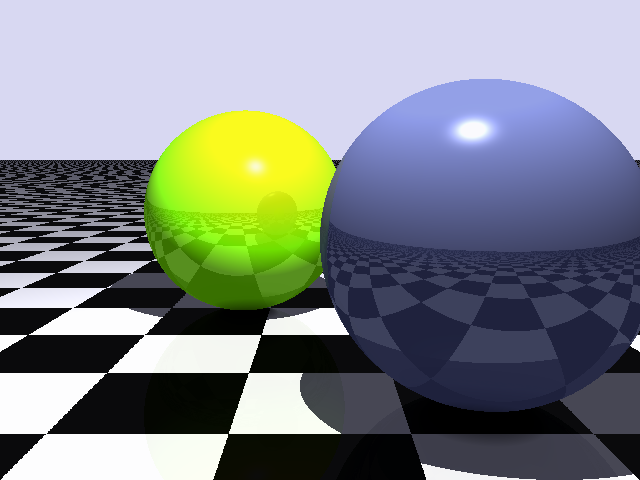
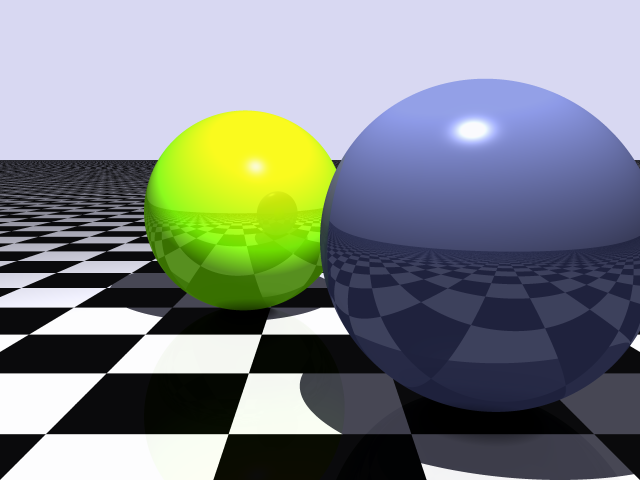
deleted sceneobject.go file

diff --git a/raytracer.go b/raytracer.go
@@ -6,11 +6,13 @@ import (
 	objects "de/vorlesung/projekt/raytracer/SceneObjects"
 	"log"
 	"os"
+	"runtime"
 	"time"
 )
 
 func main() {
-
+	numcpu := runtime.NumCPU()
+	runtime.GOMAXPROCS(numcpu)
 	h := new(Helper.Helper)
 	width := 640
 	height := 480
@@ -25,7 +27,9 @@ func main() {
 	sphere2 := objects.NewSphere(objects.NewVector(-2.5, 0.0, -0.75), 1.0)
 	plane := objects.NewPlane(objects.NewVector(0.0, -1.0, 0.0), objects.NewVector(0.0, 1.0, 0.0))
 
-	currentScene := scene.NewScene(objects.NewVector(4.0, 0.5, 0.0), scene.NewGrid(objects.NewVector(2.0, 1.00, -1.0), objects.NewVector(2.0, -0.50, 1.0)))
+	grid1 := scene.NewGrid(objects.NewVector(2.0, 1.00, -1.0), objects.NewVector(2.0, -0.50, 1.0))
+
+	currentScene := scene.NewScene(objects.NewVector(4.0, 0.5, 0.0), grid1)
 	currentScene.AddElement(scene.SceneObject(scene.NewBall(sphere1, objects.NewVector(0.54, 0.60, 0.90), 0.9, 4.0, 30.0, 0.125)))
 	currentScene.AddElement(scene.SceneObject(scene.NewBall(sphere2, objects.NewVector(1.0, 2.0, 0.0), 0.9, 4.0, 30.0, 0.125)))
 	currentScene.AddElement(scene.SceneObject(scene.NewSurface(plane, objects.NewVector(1.0, 1.0, 1.0), 1.0, 1.0, 8.0, 0.05)))
@@ -37,7 +41,7 @@ func main() {
 	t1 := time.Now()
 	//get better result with 3 or 4 instead of 1
 	//i := currentScene.Render(width, height, 5)
-	i := currentScene.Render(width, height, 1)
+	i := currentScene.Render(width, height, 5)
 	log.Println("Rendering time: ", time.Since(t1))
 	h.ImageWriter(filename, i)
 }

diff --git a/SceneObjects/sphere.go b/SceneObjects/sphere.go
@@ -9,15 +9,15 @@ type Sphere struct {
 	radius   float64
 }
 
-func (p *Sphere) GetPosition() *Vector         { return p.position }
-func (p *Sphere) GetRadius() float64           { return p.radius }
+func (p *Sphere) Position() *Vector            { return p.position }
+func (p *Sphere) Radius() float64              { return p.radius }
 func (p *Sphere) SetPosition(position *Vector) { p.position = position }
 func (p *Sphere) SetRadius(radius float64)     { p.radius = radius }
 
 func (p *Sphere) Intersection(ray *Ray) *Vector {
-	var d = ray.Origin().Sub(p.position)
+	var d = ray.Origin().Sub(p.Position())
 	var db = ray.Direction().Dot(d)
-	var subSqrt = math.Pow(db, 2) + math.Pow(p.radius, 2) - math.Pow(d.Length(), 2)
+	var subSqrt = math.Pow(db, 2) + math.Pow(p.Radius(), 2) - math.Pow(d.Length(), 2)
 	if subSqrt < 0 {
 		return nil
 	}

diff --git a/Raytracing/ball.go b/Raytracing/ball.go
@@ -22,7 +22,7 @@ func (p *Ball) Intersection(line *objects.Ray) (position, color,
 		return
 	}
 	color = p.Color()
-	normal = position.Sub(p.Sphere().GetPosition())
+	normal = position.Sub(p.Sphere().Position())
 	diffuse = p.Diffuse()
 	specularIntensity = p.SpecularIntensity()
 	specularPower = p.SpecularPower()
